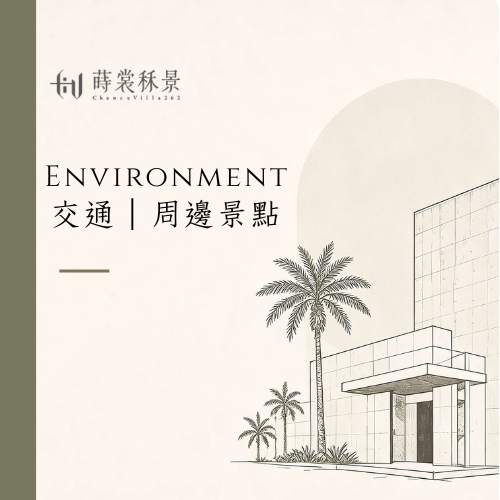
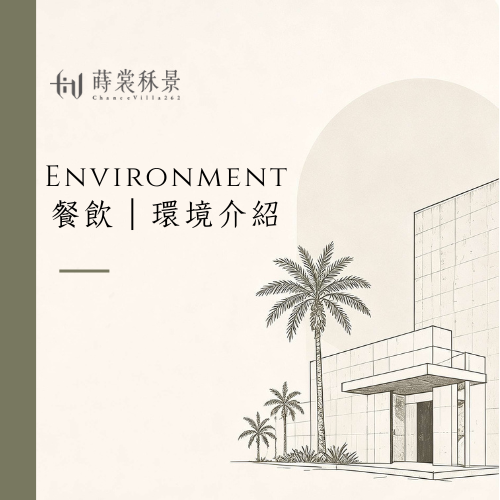
update
完善導覽 更改環境選項

Changed region(s): [[0.3, 0.39, 0.57, 0.48], [0.09, 0.39, 0.24, 0.45]]

diff --git a/app.py b/app.py
@@ -186,22 +186,22 @@ def handle_message(event):
         # Rich menu actions
         # -------------------------------------------------------------
 
-        # 線上訂房
+        # 線上訂房 缺链接就完成
         elif text == '線上訂房':
             line_bot_api.reply_message(
                 ReplyMessageRequest(
                     reply_token=event.reply_token,
                     messages=[
                         ImageMessage(
-                            original_content_url=url + '/booking-price.png',
-                            preview_image_url=url + '/booking-price.png'
+                            original_content_url=url + '/booking-price.jpg',
+                            preview_image_url=url + '/booking-price.jpg'
                         ),
                         TextMessage(text="歡迎預約入住！請透過以下連結完成線上訂房：#訂房鏈接")
                     ]
                 )
             )
 
-        # 客房導覽
+        # 客房導覽 待确认
         elif text == '客房導覽':
             room_tour_template = ImageCarouselTemplate(
                 columns=[
@@ -226,7 +226,7 @@ def handle_message(event):
                 )
             )
 
-        # 餐飲|環境介紹
+        # 餐飲|環境介紹 
         elif text == '餐飲|環境介紹':
             dining_env_template = ImageCarouselTemplate(
                 columns=[
@@ -235,7 +235,7 @@ def handle_message(event):
                         action=PostbackAction(label='餐飲', data='action=dining')
                     ),
                     ImageCarouselColumn(
-                        image_url=url + '/environment.png',
+                        image_url=url + '/environment-bigpic.png',
                         action=PostbackAction(label='環境介紹', data='action=environment')
                     ),
                 ]
@@ -247,7 +247,7 @@ def handle_message(event):
                 )
             )
 
-        # 入住須知
+        # 入住須知 完成
         elif text == '入住須知':
             checkin_template = ImageCarouselTemplate(
                 columns=[
@@ -272,7 +272,7 @@ def handle_message(event):
                 )
             )
 
-        # 交通|周邊景點
+        # 交通|周邊景點 待确认
         elif text == '交通|周邊景點':
             transport_template = ImageCarouselTemplate(
                 columns=[
@@ -359,24 +359,48 @@ def handle_postback(event):
                 )
             )
         elif data == 'action=environment':
+            environment_carousel_template = ImageCarouselTemplate(
+                columns=[
+                    ImageCarouselColumn(
+                        image_url=url + '/environment-pic1.png',
+                        action=PostbackAction(label='悠然自得', data='action=noop', display_text=' ')
+                    ),
+                    ImageCarouselColumn(
+                        image_url=url + '/environment-pic2.png',
+                        action=PostbackAction(label='館內泳池', data='action=noop', display_text=' ')
+                    ),
+                    ImageCarouselColumn(
+                        image_url=url + '/environment-pic3.png',
+                        action=PostbackAction(label='停車場地', data='action=noop', display_text=' ')
+                    ),
+                    ImageCarouselColumn(
+                        image_url=url + '/environment-pic4.png',
+                        action=PostbackAction(label='一樓大廳', data='action=noop', display_text=' ')
+                    ),
+                    ImageCarouselColumn(
+                        image_url=url + '/environment-pic5.png',
+                        action=PostbackAction(label='二樓交誼庭', data='action=noop', display_text=' ')
+                    ),
+                ]
+            )
+            line_bot_api.reply_message(
+                ReplyMessageRequest(
+                    reply_token=event.reply_token,
+                    messages=[TemplateMessage(alt_text='環境介紹', template=environment_carousel_template)]
+                )
+            )
+
+        # ---- 入住須知 子選項 ---- 完成
+        elif data == 'action=facility':
             line_bot_api.reply_message(
                 ReplyMessageRequest(
                     reply_token=event.reply_token,
                     messages=[
                         ImageMessage(
-                            original_content_url=url + '/environment-detail.png',
-                            preview_image_url=url + '/environment-detail.png'
+                            original_content_url=url + '/detail-facility.png',
+                            preview_image_url=url + '//detail-facility.png'
                         )
                     ]
-                )
-            )
-
-        # ---- 入住須知 子選項 ----
-        elif data == 'action=facility':
-            line_bot_api.reply_message(
-                ReplyMessageRequest(
-                    reply_token=event.reply_token,
-                    messages=[TextMessage(text="這是設施的詳細介紹")]
                 )
             )
         